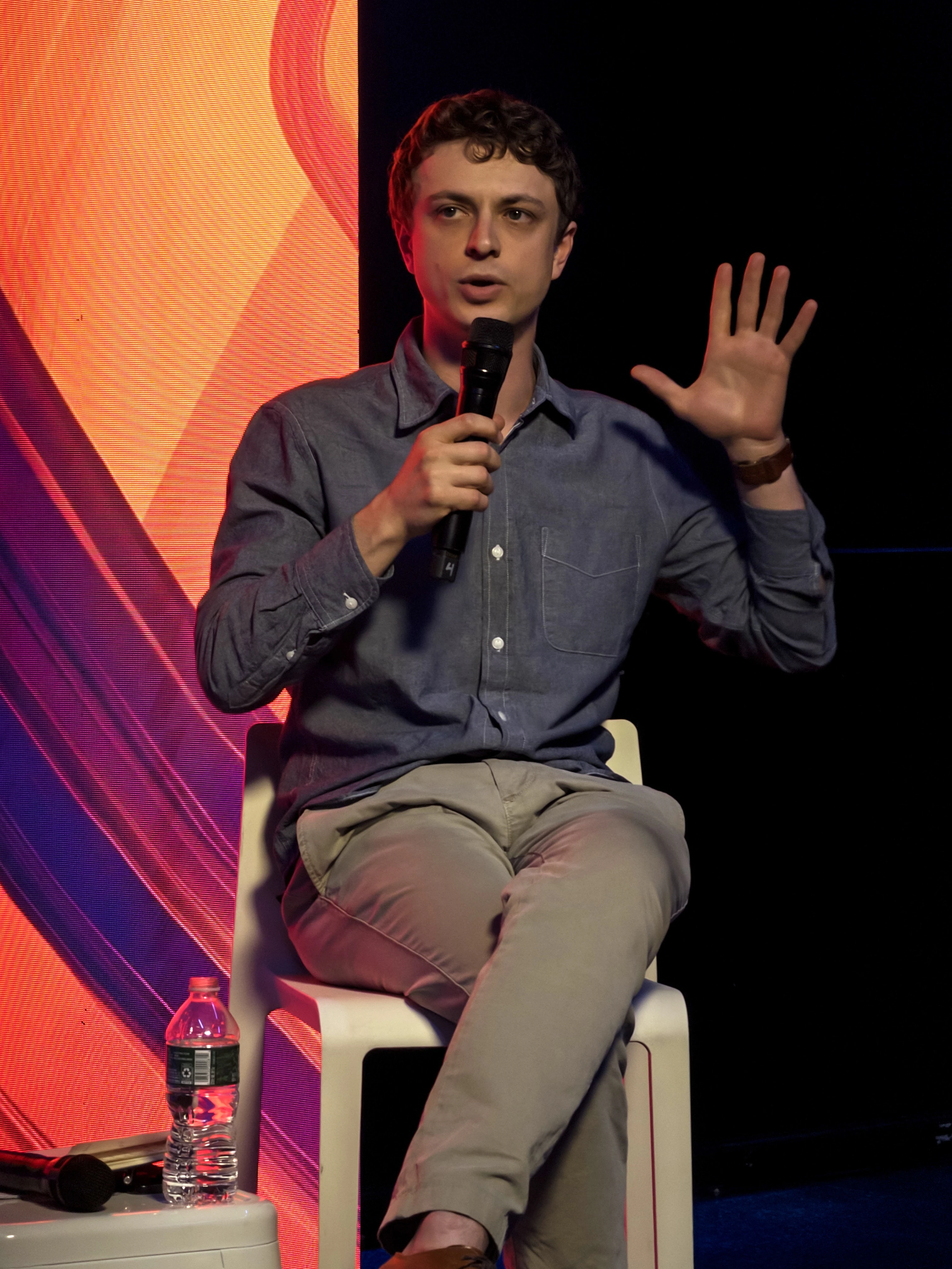
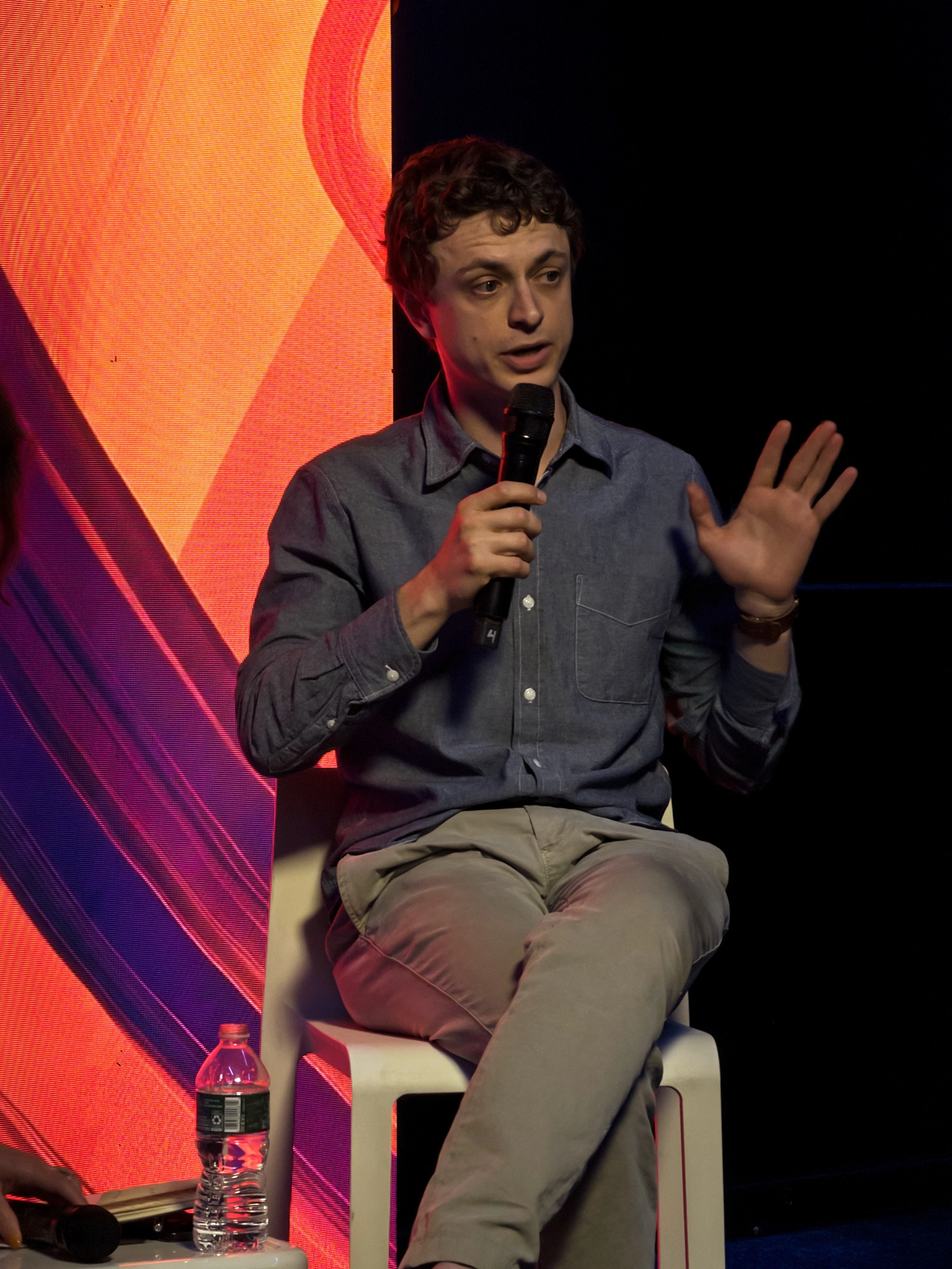
Ethics blurb

diff --git a/_includes/ethics-entry.html b/_includes/ethics-entry.html
@@ -37,11 +37,7 @@
     </div>
     {% endif %}
     {% if t.blurb and t.blurb != "" %}
-    <div class="ethics-blurb">
-      {% assign paragraphs = t.blurb | strip | split: "
-" %}
-      {% for p in paragraphs %}{% assign p = p | strip %}{% if p != "" %}<p>{{ p }}</p>{% endif %}{% endfor %}
-    </div>
+    <div class="ethics-blurb">{{ t.blurb | markdownify }}</div>
     {% endif %}
     {% if include.full %}
     {% assign desc = t.content | strip %}

diff --git a/assets/css/main.scss b/assets/css/main.scss
@@ -1407,6 +1407,13 @@ footer {
     p:last-child {
       margin-bottom: 0;
     }
+
+    a {
+      color: inherit;
+      text-decoration: underline;
+      text-decoration-thickness: 1px;
+      text-underline-offset: 0.2em;
+    }
   }
 
   .ethics-location {

diff --git a/_speaking/2026-05-11-thinking-through-panel-1.md b/_speaking/2026-05-11-thinking-through-panel-1.md
@@ -6,4 +6,8 @@ pre: "with"
 org: "Thinking Through for AI Week"
 location: "New York"
 title: "Are We Building Better Lives?"
+link: "https://luma.com/ambj9y8w"
+blurb: |
+  In these two panels, organized by [Dr. Ece Tekbulut](https://www.linkedin.com/in/ece-tekbulut/) through her philosophy social club [Thinking Through](https://thinkingsocial.substack.com), I offered my perspective on AI, robotics, and human relationships. I was joined by [Seniha Koksal](https://www.linkedin.com/in/senihakoksal/), [Dr. Benjamin Shapiro](https://www.linkedin.com/in/benjdshapiro/), and [Geoff Gibbins](https://www.linkedin.com/in/geoffgibbins/), who spoke on art, biomedicine, and workplace issues in light of generative AI.
 ---
+
